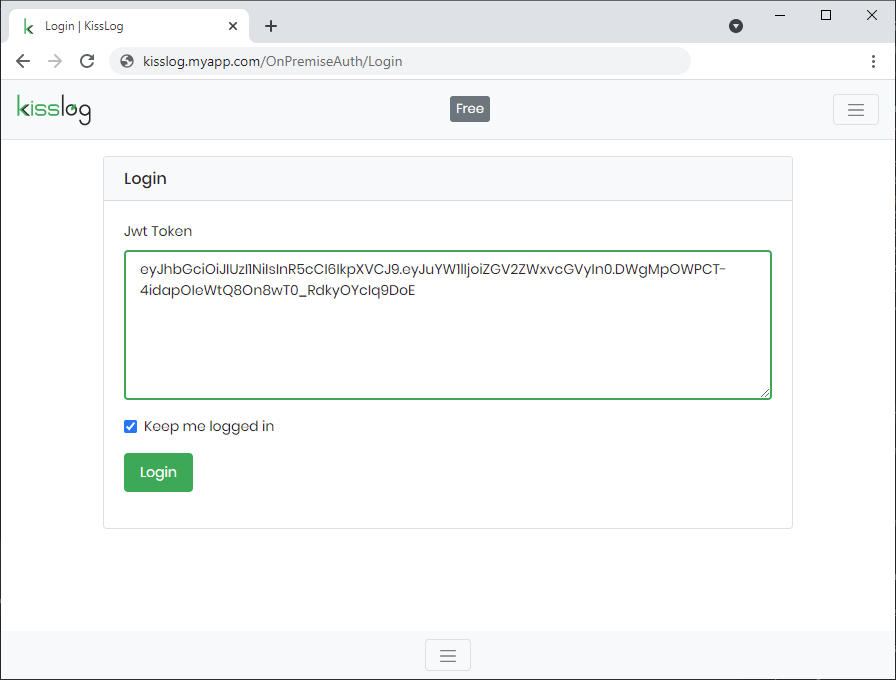
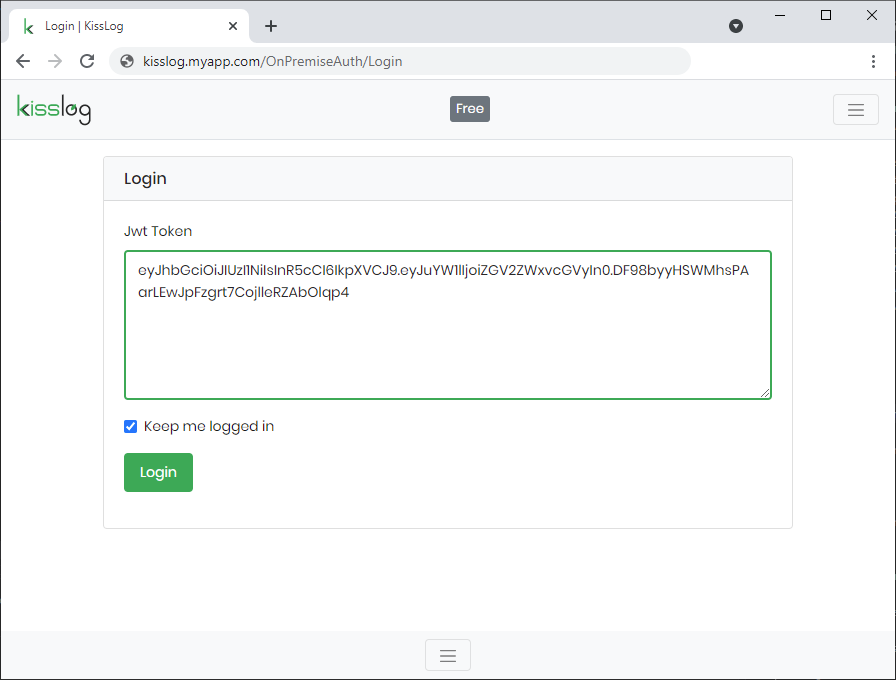
in progress

Changed region(s): [[0.1562, 0.3706, 0.8438, 0.4632]]

diff --git a/source/on-premises/installation-guide.rst b/source/on-premises/installation-guide.rst
@@ -74,16 +74,15 @@ Configuration
 
 After the initial deployment, you need to update the mandatory configuration options.
 
-The configuration file for each application is located under ``.\Configuration\KissLog.json``.
+The configuration file for each application is located under ``Configuration\KissLog.json``.
 
 KissLog.Backend 
 ~~~~~~~~~~~~~~~~~~~~~~~~~~~~~~~~~~~~~~~~~~
 
-C:\\inetpub\\wwwroot\\KissLog.Backend\\Configuration\\KissLog.json
-
 Replace the following mandatory properties with corresponding values:
 
 .. code-block:: json
+    :caption: C:\\inetpub\\wwwroot\\KissLog.Backend\\Configuration\\KissLog.json
 
     {
         "KissLogBackendUrl": "http://my.kisslog-backend.com",
@@ -105,9 +104,9 @@ Replace the following mandatory properties with corresponding values:
 +----------------------------------------------+-------------------------------------------------------------+
 | Description                                                                                                |
 +==============================================+=============================================================+
-| KissLogBackendUrl                            | Root url pointing to KissLog.Backend application            |
+| KissLogBackendUrl                            | Url pointing to KissLog.Backend application                 |
 +----------------------------------------------+-------------------------------------------------------------+
-| KissLogFrontendUrl                           | Root url pointing to KissLog.Frontend application           |
+| KissLogFrontendUrl                           | Url pointing to KissLog.Frontend application                |
 +----------------------------------------------+-------------------------------------------------------------+
 | Database.Provider                            | Possible values: **MongoDb**, **AzureCosmosDb**             |
 +----------------------------------------------+-------------------------------------------------------------+
@@ -119,11 +118,10 @@ Replace the following mandatory properties with corresponding values:
 KissLog.Frontend 
 ~~~~~~~~~~~~~~~~~~~~~~~~~~~~~~~~~~~~~~~~~~
 
-C:\\inetpub\\wwwroot\\KissLog.Frontend\\Configuration\\KissLog.json
-
 Replace the following mandatory properties with corresponding values:
 
 .. code-block:: json
+    :caption: C:\\inetpub\\wwwroot\\KissLog.Frontend\\Configuration\\KissLog.json
 
     {
         "KissLogBackendUrl": "http://my.kisslog-backend.com",
@@ -137,13 +135,13 @@ Replace the following mandatory properties with corresponding values:
 +----------------------------------------------+-------------------------------------------------------------+
 | Description                                                                                                |
 +==============================================+=============================================================+
-| KissLogBackendUrl                            | Root url pointing to KissLog.Backend application            |
+| KissLogBackendUrl                            | Url pointing to KissLog.Backend application                 |
 +----------------------------------------------+-------------------------------------------------------------+
-| KissLogFrontendUrl                           | Root url pointing to KissLog.Frontend application           |
+| KissLogFrontendUrl                           | Url pointing to KissLog.Frontend application                |
 +----------------------------------------------+-------------------------------------------------------------+
 | Database.Provider                            | Possible values: **SqlServer**, **MySql**                   |
 +----------------------------------------------+-------------------------------------------------------------+
-| Database.KissLogDbContext                    | Database (entity framework) connection string               |
+| Database.KissLogDbContext                    | Database connection string                                  |
 +----------------------------------------------+-------------------------------------------------------------+
 
 
@@ -154,7 +152,7 @@ After updating the configuration files, you can run the applications.
 
 The initial startup  will bootstrap all the necessary components including MongoDB and SQL databases.
 
-Startup logs (including errors) will be generated under ``.\Logs`` folder:
+Startup logs (including errors) will be generated under ``\Logs`` folder:
 
 * ``C:\inetpub\wwwroot\KissLog.Backend\Logs\``
 
@@ -163,27 +161,35 @@ Startup logs (including errors) will be generated under ``.\Logs`` folder:
 Startup steps 
 ~~~~~~~~~~~~~~~~~~~~~~~~~~~~~~~~~~~~~~~~~~
 
-# 1) Make a single request to KissLog.Backend root URL ("http://kisslog-backend.myapp.com")
+1). Make a single request to KissLog.Backend root URL ("http://kisslog-backend.myapp.com")
 
 If the startup process went successful, a ``200 OK "Running"`` response will be returned.
 
 .. figure:: images/installation-guide/KissLogBackend-Startup.png
     :alt: KissLog.Backend Startup
 
-# 2) Make a single request to the KissLog.Frontend root URL ("http://kisslog.myapp.com").
+2). Make a single request to the KissLog.Frontend root URL ("http://kisslog.myapp.com").
 
 If the startup process went successful, you will see the home page.
 
 .. figure:: images/installation-guide/KissLogFrontend-Startup.png
     :alt: KissLog.Frontend Startup
 
-.. figure:: images/installation-guide/KissLogFrontend-Login.png
-    :alt: KissLog.Frontend Login
+Login
+~~~~~~~~~~~~~~~~~~~~~~~~~~~~~~~~~~~~~~~~~~
+
+To login, you must create a JWT token signed with the secret provided under ``Authorization\HS256Secret`` property from ``KissLog.Frontend\Configuration\KissLog.json`` file.
+
+.. figure:: images/installation-guide/KissLogFrontend-generate-Login-Token.png
+    :alt: Generating Login Token
 
 .. code-block:: none
     :caption: Login JWT Token
 
-    eyJhbGciOiJIUzI1NiIsInR5cCI6IkpXVCJ9.eyJuYW1lIjoiZGV2ZWxvcGVyIn0.DWgMpOWPCT-4idapOIeWtQ8On8wT0_RdkyOYcIq9DoE
+    eyJhbGciOiJIUzI1NiIsInR5cCI6IkpXVCJ9.eyJuYW1lIjoiZGV2ZWxvcGVyIn0.DF98byyHSWMhsPAarLEwJpFzgrt7CojlleRZAbOlqp4
+
+.. figure:: images/installation-guide/KissLogFrontend-Login.png
+    :alt: KissLog.Frontend Login
 
 .. _InstallInstructions-Troubleshooting:
 

diff --git a/source/on-premises/change-log/index.rst b/source/on-premises/change-log/index.rst
@@ -4,17 +4,17 @@ Change log
 KissLog_Package 3.0.0
 --------------------------
 
+This update simplifies the KissLog on-premises configuration options.
+
+All the configuration options from ``appsettings.json`` have been either moved to ``Configuration\KissLog.json`` or removed altogether.
+
 KissLog.Frontend configuration changes
 ~~~~~~~~~~~~~~~~~~~~~~~~~~~~~~~~~~~~~~~~~~~~~~~~~~~~~~~~~~~~
 
 .. list-table::
-   :widths: 40 60
    :header-rows: 1
 
    * - appsettings.json
-     - 
-
-   * - **Property**
      - 
 
    * - "KissLog.License"
@@ -29,6 +29,9 @@ KissLog.Frontend configuration changes
    * - "LocalTextFileListener.DirectoryPath"
      - has moved to KissLog.json "InternalLogs.DirectoryPath"
 
+   * - "LocalTextFileListener.MinimumResponseHttpStatusCode"
+     - has moved to KissLog.json "InternalLogs.MinimumStatusCode"
+
    * - "KissLogBackend.BasicAuth.Password"
      - has moved to KissLog.json "KissLogBackend.BasicAuth.Password"
 
@@ -42,13 +45,9 @@ KissLog.Frontend configuration changes
      - has been removed
 
 .. list-table::
-   :widths: 40 60
    :header-rows: 1
 
-   * - KissLog.json
-     - 
-
-   * - **Property**
+   * - Configuration\\KissLog.json
      - 
 
    * - "KissLogOrganizationId"
@@ -57,8 +56,11 @@ KissLog.Frontend configuration changes
    * - "KissLogApplicationId"
      - has been removed
 
-   * - "AnonymousAccess.HS256Secret"
+   * - "AnonymousAccess\\HS256Secret"
      - has been removed
+
+   * - "AnonymousAccess"
+     - has moved to "UserInterface\\CreatePermalinkWithAnonymousAccess"
 
    * - "Notifications"
      - has been removed
@@ -68,3 +70,24 @@ KissLog.Frontend configuration changes
 
    * - "Applications"
      - has moved to "UserInterface\\Applications"
+
+KissLog.Backend configuration changes
+~~~~~~~~~~~~~~~~~~~~~~~~~~~~~~~~~~~~~~~~~~~~~~~~~~~~~~~~~~~~
+
+.. list-table::
+   :header-rows: 1
+
+   * - appsettings.json
+     - 
+
+   * - "LocalTextFileListener.DirectoryPath"
+     - has moved to KissLog.json "InternalLogs.DirectoryPath"
+
+   * - "LocalTextFileListener.MinimumResponseHttpStatusCode"
+     - has moved to KissLog.json "InternalLogs.MinimumStatusCode"
+
+   * - "LocalTextFileListener.MinimumLogMessageLevel"
+     - has been removed
+
+   * - "KissLogBackend.BasicAuth.Password"
+     - has moved to KissLog.json "KissLogBackend.BasicAuth.Password"
